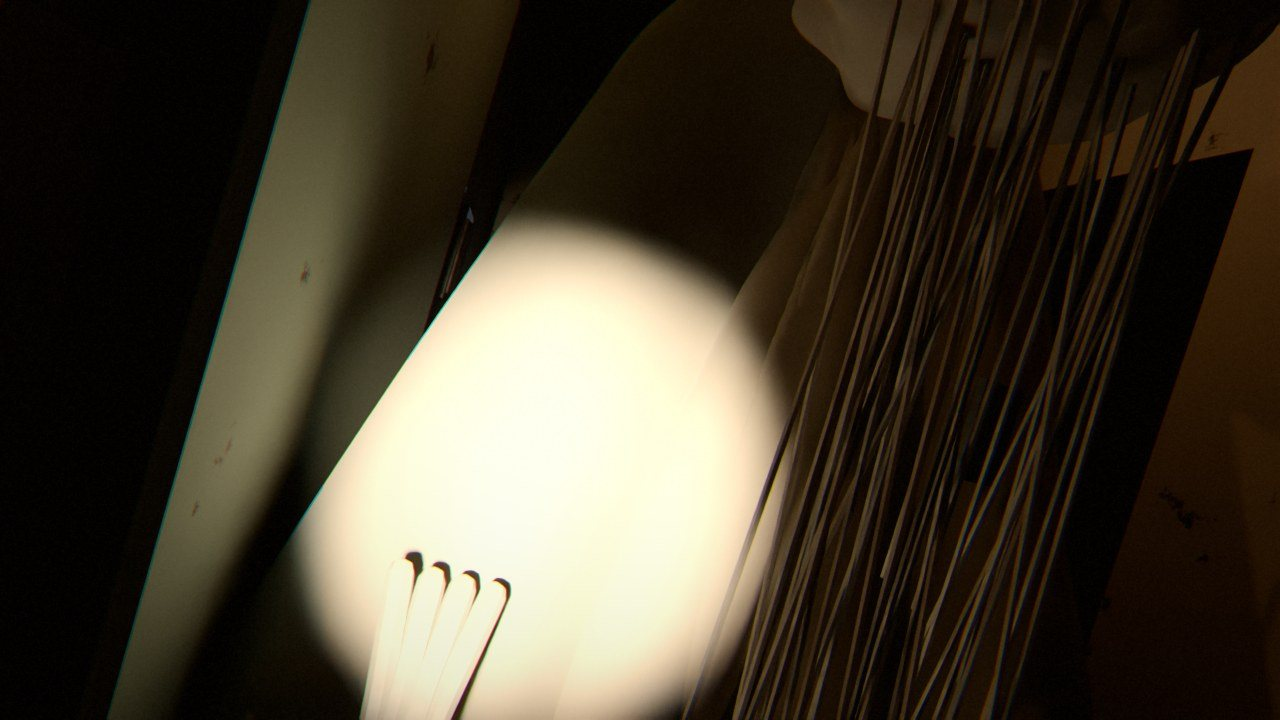
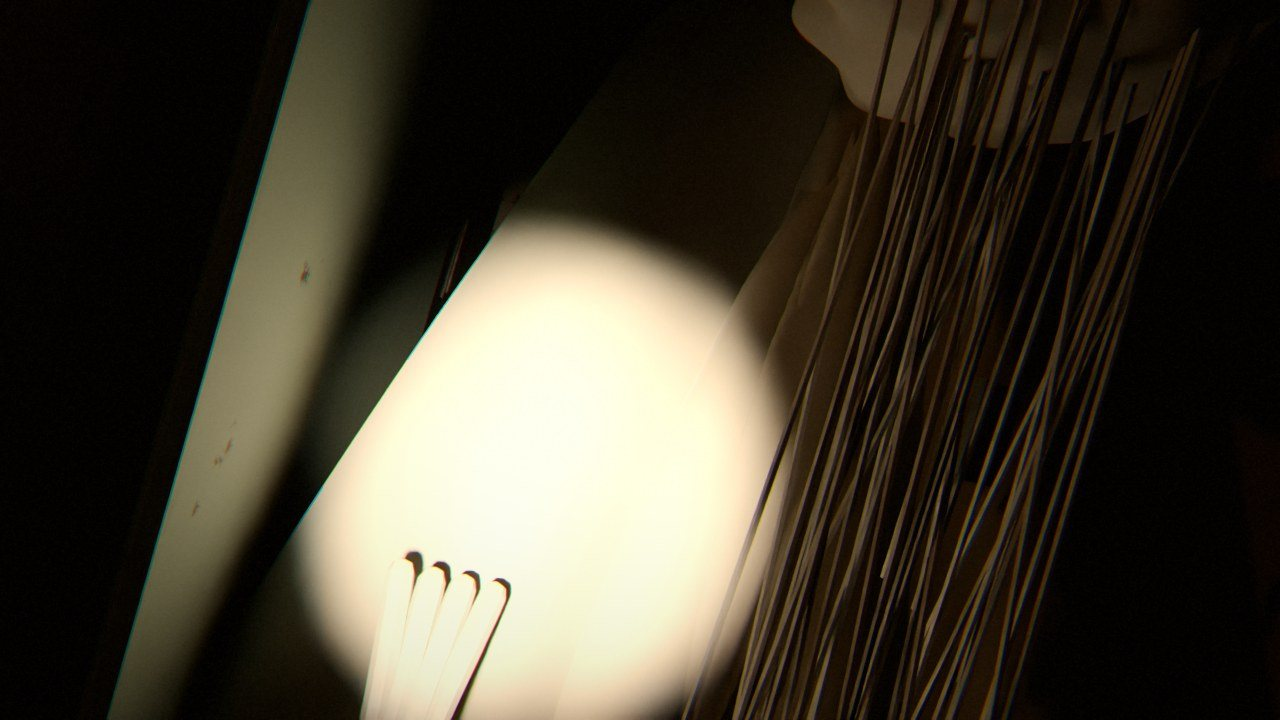
Chapter 1: dark hall lit only by the flashlight, Kumot visible dimly at the door, per-state room overlays for each entity
Claude-Session: https://claude.ai/code/session_017aRE9KzReX3GXwj8sX4dxv

diff --git a/game/index.html b/game/index.html
@@ -193,6 +193,7 @@ input[type=range]{width:100%;accent-color:#b3261e;height:30px}
       <img id="bgA" class="bg" alt="">
       <img id="bgB" class="bg" alt="" style="opacity:0">
       <img id="litImg" class="bg" alt="" style="opacity:0;transition:none">
+      <div id="ovl" class="layer" style="pointer-events:none"></div>
       <div id="fx" class="layer"></div>
       <div id="fog" class="layer"><div class="hand" style="left:500px;top:230px"></div><div class="hand" style="left:690px;top:260px;transform:rotate(12deg)"></div></div>
     </div>
@@ -1100,7 +1101,7 @@ if (typeof module !== 'undefined') module.exports = C1;
     'ringtone', 'phone_pickup', 'phone_hangup', 'line_static',
     'wing_flap', 'wing_flap_far', 'wind_gust', 'beetles', 'beetle_scatter', 'aparador_creak', 'kumot_breath', 'theme_menu',
     'step_w1', 'step_w2', 'step_w3', 'step_c1', 'step_c2', 'step_c3'];
-  IMG.push('c1_door_sw80', 'c1_door_sw62', 'c1_door_sw46', 'c1_door_sw32', 'c1_door_sw18', 'c1_hub', 'c1_hub_open', 'c1_hub_kumot', 'c1_hub_lit', 'c1_door_ajar', 'c1_peek_0', 'c1_peek_1', 'c1_peek_2', 'c1_peek_3', 'c1_door_closed', 'c1_win_closed', 'c1_win_shadow', 'c1_win_open',
+  IMG.push('c1_door_k3', 'c1_win_shadow2', 'c1_door_sw80', 'c1_door_sw62', 'c1_door_sw46', 'c1_door_sw32', 'c1_door_sw18', 'c1_hub', 'c1_hub_open', 'c1_hub_kumot', 'c1_hub_lit', 'c1_door_ajar', 'c1_peek_0', 'c1_peek_2', 'c1_peek_3', 'c1_door_closed', 'c1_win_closed', 'c1_win_shadow', 'c1_win_open',
     'c1_win_s1', 'c1_win_s2', 'c1_win_s3', 'c1_scare_barang', 'hero_barang', 'c1_under', 'c1_under_kumot');
   for (var _i = 0; _i < 5; _i++) IMG.push('c1_cab_' + _i, 'c1_cab_' + _i + '_lit');
   var VOICE = [];
@@ -1146,6 +1147,7 @@ if (typeof module !== 'undefined') module.exports = C1;
     var total = IMG.length + SFX.length + VOICE.length, done = 0;
     function tick() { done++; onProgress(done / total); }
     var jobs = [];
+    ['hubx_k3', 'hubx_s2c', 'hubx_s3c', 'hubx_s2o', 'hubx_s3o', 'hubx_b2', 'hubx_b3', 'hubx_b4'].forEach(function (k) { var i = new Image(); i.src = 'assets/img/' + k + '.webp'; imgs[k] = i; });
     IMG.forEach(function (k) { jobs.push(new Promise(function (res) { var i = new Image(); i.onload = i.onerror = function () { tick(); res(); }; i.src = 'assets/img/' + k + '.jpg'; imgs[k] = i; })); });
     SFX.forEach(function (k) { jobs.push(fetch('assets/sfx/' + k + '.mp3').then(function (r) { return r.ok ? r.arrayBuffer() : null; }).then(function (b) { rawAudio[k] = b; tick(); }).catch(function () { tick(); })); });
     VOICE.forEach(function (k) { jobs.push(fetch('assets/voice/' + k + '.mp3').then(function (r) { return r.ok ? r.arrayBuffer() : null; }).then(function (b) { rawAudio['v_' + k] = b; tick(); }).catch(function () { tick(); })); });
@@ -1563,6 +1565,7 @@ if (typeof module !== 'undefined') module.exports = C1;
       var m = 'radial-gradient(circle at ' + beam[0] + 'px ' + beam[1] + 'px, #000 0, #000 120px, rgba(0,0,0,.6) 190px, transparent 280px)';
       li.style.webkitMaskImage = li.style.maskImage = m; li.style.opacity = 1;
     } else li.style.opacity = 0;
+    if (isC1()) c1Overlays(); else if (ovlSig) { ovlSig = ''; $('ovl').innerHTML = ''; }
     // flashlight beam follows the finger
     var dk = $('dark'), lit = g.p.light;
     var needDark = dark || (g.p.room === 'curtain' && g.house.curtain) || g.p.room === 'hall' && !g.house.power || (isC1() && g.p.pos === 'cabinet');
@@ -1735,9 +1738,13 @@ if (typeof module !== 'undefined') module.exports = C1;
     var g = game, p = g.p, H = g.house, k = g.k, s = g.s, b = g.b;
     if (p.travel) return lastKey || 'c1_hub';
     switch (p.pos) {
-      case 'door': if (swing) return swing.seq[swing.i]; return p.holdDoor ? 'c1_door_closed' : (p.peek > 0 ? 'c1_peek_' + peekSt : 'c1_door_ajar');
+      case 'door':
+        if (swing) return swing.seq[swing.i];
+        if (p.holdDoor) return 'c1_door_closed';
+        if (p.peek > 0) return 'c1_peek_' + peekSt;                           // the flashlight shows exactly where she is
+        return k.on && k.st === 3 ? 'c1_door_k3' : 'c1_door_ajar';   // without it: only a dim shape once she is right at the door
       case 'window':
-        if (!H.curtain) return (s.st === 3) ? 'c1_win_shadow' : 'c1_win_closed';
+        if (!H.curtain) return s.st >= 3 ? 'c1_win_shadow' : (s.st === 2 ? 'c1_win_shadow2' : 'c1_win_closed');
         return s.st >= 1 ? 'c1_win_s' + Math.min(3, s.st) : 'c1_win_open';
       case 'cabinet': return 'c1_cab_' + b.st;
       case 'bed': return k.st === 4 && k.search > 0 ? 'c1_under_kumot' : 'c1_under';
@@ -1747,6 +1754,19 @@ if (typeof module !== 'undefined') module.exports = C1;
     return H.curtain ? 'c1_hub_open' : 'c1_hub';
   }
   var peekSt = 0;
+  // what the room shows from the middle, one cut-out per entity: Kumot at the doorway, Silip at the window, Barang's aparador
+  var ovlSig = '';
+  function c1Overlays() {
+    var g = game, p = g.p, H = g.house, k = g.k, s = g.s, b = g.b, keys = [];
+    if (g.chapter === 1 && p.pos === 'center' && !p.travel && !p.hidden && H.power && k.st !== 4) {
+      if (k.on && k.st === 3) keys.push('hubx_k3');
+      if (s.on && s.st >= 2) keys.push('hubx_s' + Math.min(3, s.st) + (H.curtain ? 'o' : 'c'));
+      if (b.on && b.st >= 2) keys.push('hubx_b' + Math.min(4, b.st));
+    }
+    var sig = keys.join(','); if (sig === ovlSig) return; ovlSig = sig;
+    var box = $('ovl'); box.innerHTML = '';
+    keys.forEach(function (key) { var im = document.createElement('img'); im.className = 'bg'; im.alt = ''; im.src = 'assets/img/' + key + '.webp'; box.appendChild(im); });
+  }
   function c1LitKey() {   // the flashlight-lit render that the beam reveals
     var p = game.p; if (!p.light || p.travel) return null;
     if (p.pos === 'cabinet') return 'c1_cab_' + game.b.st + '_lit';
@@ -1813,7 +1833,7 @@ if (typeof module !== 'undefined') module.exports = C1;
       case 'travel': c1Travel(d); break;
       case 'arrive': if (d.to !== 'bed' && d.from !== 'bed') c1Arrive(d); break;
       case 'door_shut': if (isC1()) { c1Swing(true); break; } play('door_close_shut', { vol: 0.85 }); setView(true, true); jolt(); break;
-      case 'peek': peekSt = d.st; play('flashlight_on', { vol: 0.5 }); play('door_creak', { vol: 0.3 }); setView(true, true); if (d.st === 3) { play('wheeze', { vol: 1 }); jolt(); flashRed(); } break;
+      case 'peek': peekSt = d.st >= 2 ? d.st : 0;   /* Chapter 1 has two sightings: down the hall (2) and at the door (3) */ play('flashlight_on', { vol: 0.5 }); play('door_creak', { vol: 0.3 }); setView(true, true); if (d.st === 3) { play('wheeze', { vol: 1 }); jolt(); flashRed(); } break;
       case 'kumot_startled': play('door_slam', { vol: 0.5, delay: 0.3 }); break;
       case 'silip_tear': play('curtain_open_pull', { vol: 1 }); break;
       case 'door_release': if (isC1()) { c1Swing(false); break; } play('door_creak', { vol: 0.35 }); setView(true, true); break;
